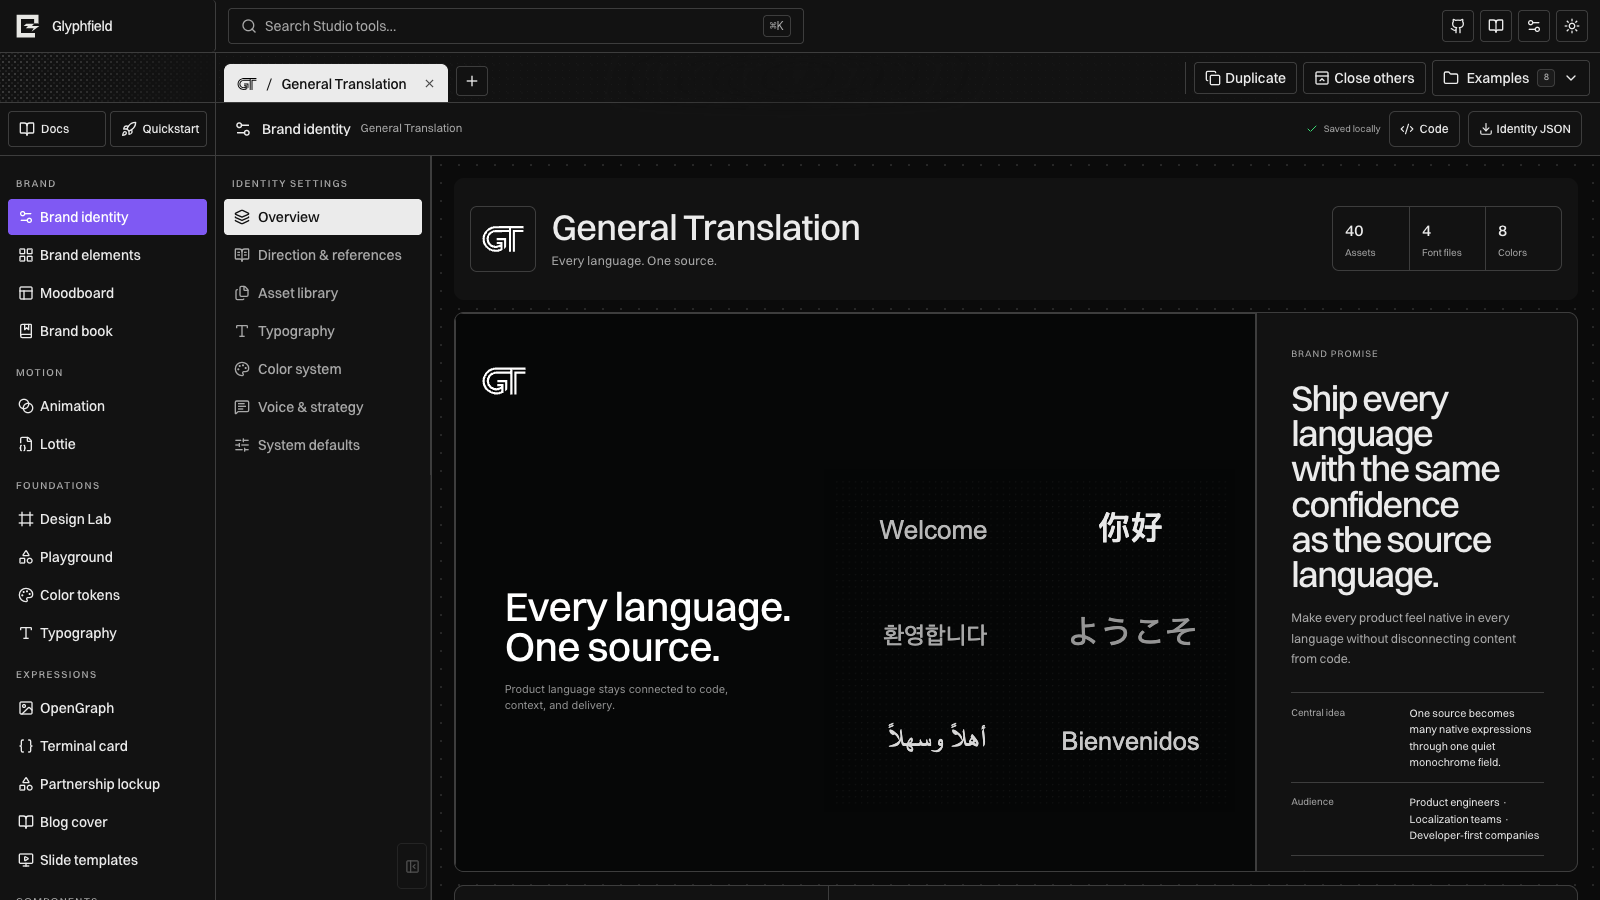
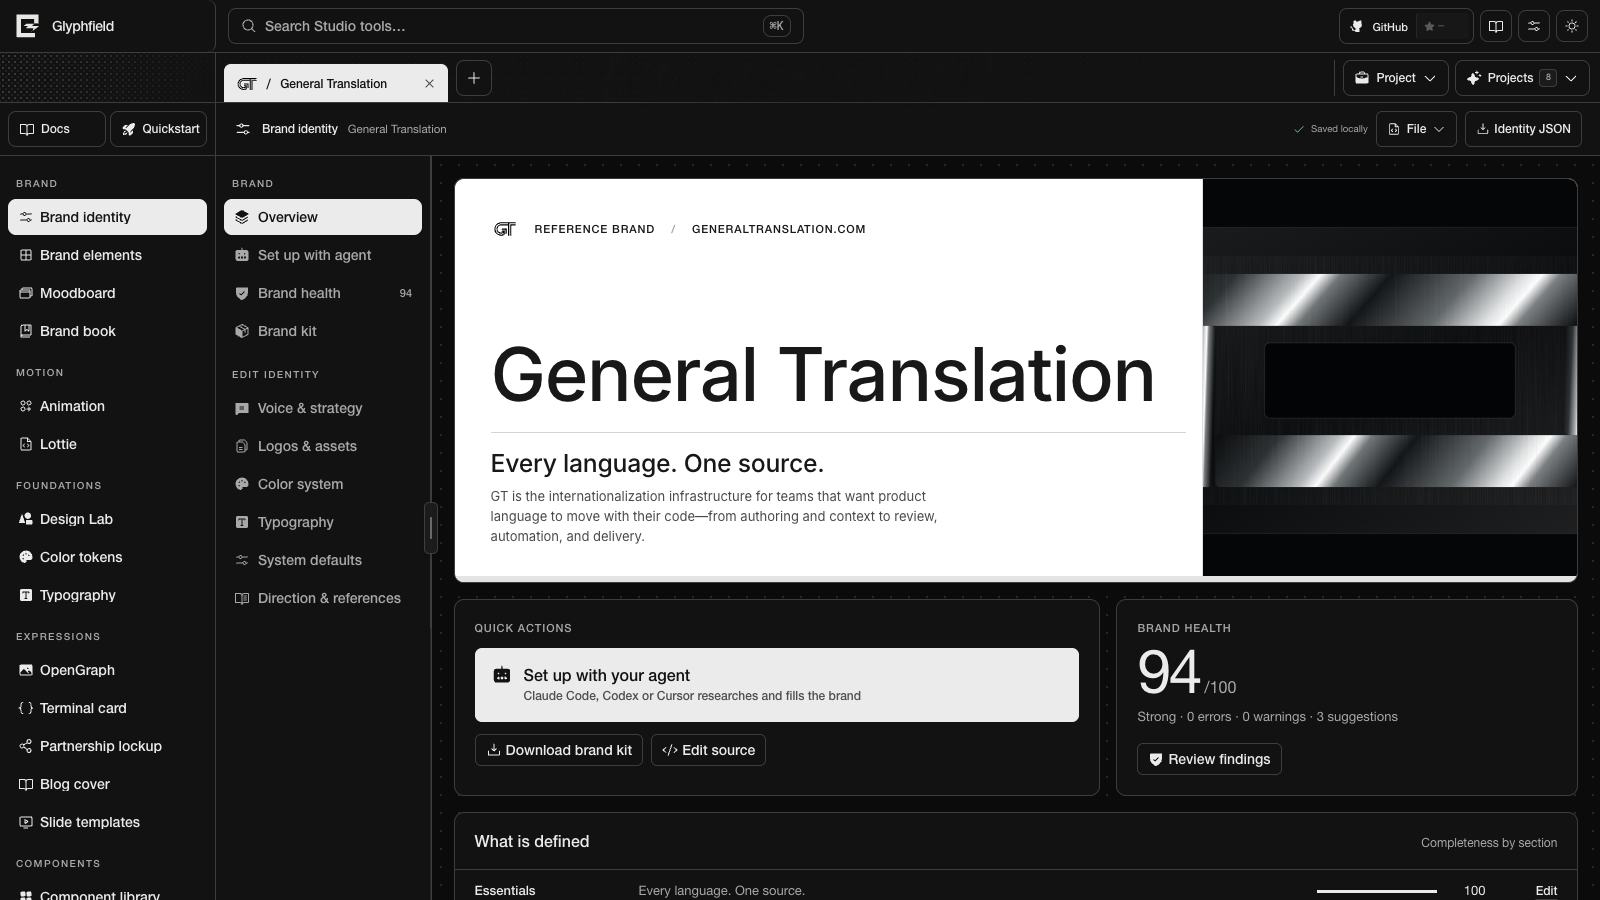
feat(brand): choose the cover from an asset tagged cover
Ramp's cover uses its ledger material instead of the cropped workflow
diagram. Refreshes the Brand identity docs screenshots (1600 × 900, GT,
light and dark) with the rebuilt tool.

diff --git a/src/lib/identityPresets.ts b/src/lib/identityPresets.ts
@@ -141,7 +141,7 @@ const OFFICIAL_LIBRARY_ASSETS: Readonly<Record<string, readonly LibraryAssetSour
     sourceUrl: ['atmosphere', 'hero', 'workflow', 'system', 'material', 'signal'].includes(name)
       ? 'https://ramp.com/'
       : `https://assets.ramp.com/press_kit/ramp_june_26_press_kit.zip#${fileName}`,
-    tags: [type, ['atmosphere', 'hero', 'workflow', 'system', 'material', 'signal'].includes(name) ? 'brand-diagram' : 'source-native', 'official-press-kit', 'finance-operations'],
+    tags: [type, ['atmosphere', 'hero', 'workflow', 'system', 'material', 'signal'].includes(name) ? 'brand-diagram' : 'source-native', 'official-press-kit', 'finance-operations', ...(name === 'material' ? ['cover'] : [])],
     type: type as BrandAsset['type'],
     usage: 'Official product and card photography for finance, product, campaign, and editorial compositions.',
   })),

diff --git a/src/components/BrandIdentityFrontPage.tsx b/src/components/BrandIdentityFrontPage.tsx
@@ -67,9 +67,10 @@ function isDark(hex: string): boolean {
   }
 }
 
-/** The brand's own graphic device: its identity field, or another background it owns. */
+/** The asset tagged cover, else the identity field, else another background the brand owns. */
 function coverVisual(identity: BrandIdentity) {
-  return identity.assets.find(({ id }) => id === 'identity-field')
+  return identity.assets.find(({ tags }) => tags?.includes('cover'))
+    ?? identity.assets.find(({ id }) => id === 'identity-field')
     ?? identity.assets.find(({ type }) => type === 'background' || type === 'texture');
 }
 

diff --git a/src/lib/__tests__/identityStartup.test.ts b/src/lib/__tests__/identityStartup.test.ts
@@ -9,7 +9,7 @@ describe('landing identity dependencies', () => {
   it('preserves every serialized built-in field while splitting the startup identity', () => {
     // Extraction baseline: update only when intentionally editing canonical preset data.
     expect(createHash('sha256').update(JSON.stringify(BUILT_IN_BRAND_IDENTITIES)).digest('hex'))
[2 lines of base64/hex data omitted]
   });
 
   it('loads the canonical GT leaf without the all-brand catalog', () => {
